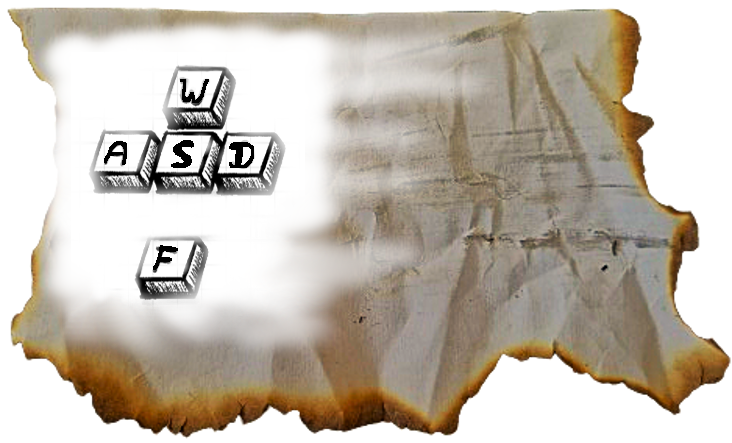
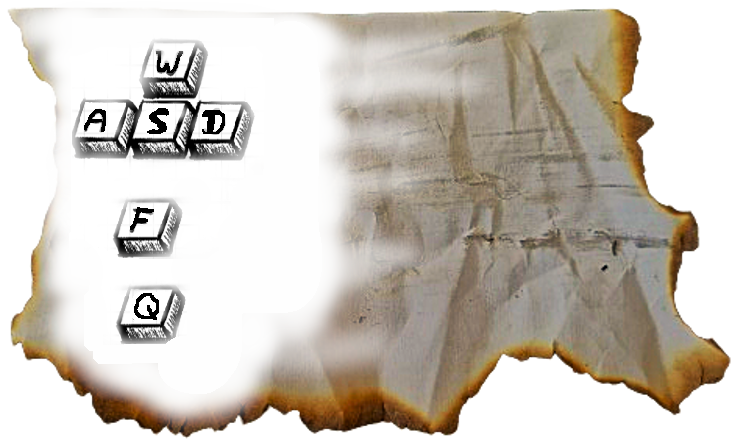
aufgerauemt plus neue features

Changed region(s): [[0.0, 0.0, 0.541, 0.9684], [0.4508, 0.2348, 0.4809, 0.2935]]

diff --git a/src/main/java/com/cab/states/Language.java b/src/main/java/com/cab/states/Language.java
@@ -1,10 +1,17 @@
-package com.cab;
+package com.cab.states;
 
+import java.awt.Color;
 import java.awt.Graphics2D;
+
+import com.cab.GamePanel;
+import com.cab.Main;
+import com.cab.configs.Positions;
 
 public class Language {
     GamePanel gp;
-    String[] langs = {"de", "en"};
+    String[] headers = {"Wähle eine Sprache"};
+    String[] langs = {"de"};
+    int[] xPositions = {Positions.tileSize5};
     String selectedLanguage;
     int selectIdx;
 
@@ -28,14 +35,19 @@ public class Language {
                     }
                 } else if (gp.keyH.fPressed) {
                     selectedLanguage = langs[selectIdx];
-                    gp.gameState = gp.hauptmenuState; // TODO irgendwann: TitleSeite titleState
+                    gp.gameState = gp.hauptmenuState;
                 }
             }
         }
     }
 
     public void draw(Graphics2D g2) {
-        g2.drawImage(gp.imageLoader.getFlagForLand(langs[0], selectIdx == 0), gp.tileSize * 12, Main.screenHalfHeight, gp.tileSize * 4, gp.tileSize * 4, null);
-        g2.drawImage(gp.imageLoader.getFlagForLand(langs[1], selectIdx == 1), gp.tileSize * 22, Main.screenHalfHeight, gp.tileSize * 4, gp.tileSize * 4, null);
+        g2.setColor(Color.RED);
+        g2.setFont(Main.v.brushedFont36);
+
+        for (int i = 0; i < headers.length; i++) {
+            g2.drawString(headers[i], Positions.tileSize, Positions.tileSize7);
+            g2.drawImage(gp.imageLoader.getFlagForLand(langs[i], selectIdx == i), xPositions[i], Positions.screenHalfHeight, Positions.tileSize4, Positions.tileSize3Point6, null);
+        }
     }
 }

diff --git a/src/main/java/com/cab/GamePanel.java b/src/main/java/com/cab/GamePanel.java
@@ -10,7 +10,12 @@ import javax.swing.JPanel;
 import com.cab.card.CardLoader;
 import com.cab.cardGame.CardGame;
 import com.cab.draw.ImageLoader;
+import com.cab.draw.MenuInstraction;
 import com.cab.network.Connection;
+import com.cab.states.CardMenu;
+import com.cab.states.Hauptmenu;
+import com.cab.states.Language;
+import com.cab.states.Shop;
 
 public class GamePanel extends JPanel implements Runnable {
     public boolean blockBtn; //TODO irgendwann kann das nicht in keyHandler und dann brauch keyHandler auch kein gp mehr
@@ -55,6 +60,9 @@ public class GamePanel extends JPanel implements Runnable {
     public CardMenu cardMenu;
     public CardGame cardGame;
 
+	//Draw
+	public MenuInstraction menuInstraction;
+
     Thread gameThread;
 
     public GamePanel() {
@@ -85,6 +93,8 @@ public class GamePanel extends JPanel implements Runnable {
 		shop = new Shop(this);
 		cardMenu = new CardMenu(this);
 		cardGame = new CardGame(this);
+
+		menuInstraction = new MenuInstraction(this);
 
 		playMusic(9);
 		gameState = languageState; 
@@ -142,14 +152,17 @@ public class GamePanel extends JPanel implements Runnable {
 		}
 	    else if (gameState == languageState) {
 			language.draw(g2);
+			menuInstraction.draw(g2);
 		} else if (gameState == hauptmenuState) {
 			hauptmenu.draw(g2);
+			menuInstraction.draw(g2);
 		} else if (gameState == cardMenuState) {
 			cardMenu.draw(g2);
 		} else if (gameState == cardGameState) {
 			cardGame.draw(g2);
 		} else if (gameState == shopState) {
 			shop.draw(g2);
+			menuInstraction.draw(g2);
 		}
 		g2.dispose();
 	}

diff --git a/src/main/java/com/cab/configs/Positions.java b/src/main/java/com/cab/configs/Positions.java
@@ -91,10 +91,19 @@ public class Positions {
     public static int tileSize26 = tileSize * 26;
     public static int tileSize31 = tileSize * 31;
 
+    public static int tileSizeBottom2 = Main.screenHeight - tileSize * 2;
+    public static int tileSizeBottom2Point5 = (int) (Main.screenHeight- tileSize * 2.5);
+    public static int tileSizeBottom2Point8 = (int) (Main.screenHeight- tileSize * 2.8);
+    public static int tileSizeBottom3Point5 = (int) (Main.screenHeight - tileSize * 3.5);
+    public static int tileSizeBottom4 = Main.screenHeight - tileSize * 4;
+
+    public static int tileSizeBottom5 = Main.screenHeight - tileSize * 5;
+
     public static int tileSizeRight1 = Main.screenWidth - tileSize;
     public static int tileSizeRight2 = Main.screenWidth - tileSize * 2;
     public static int tileSizeRight3 = Main.screenWidth - tileSize * 3;
     public static int tileSizeRight4 = Main.screenWidth - tileSize * 4;
+    public static int tileSizeRight7 = Main.screenWidth - tileSize * 7;
 
     public static int cardWidth = tileSize * 2;
     public static int cardHeight = tileSize  * 3;

diff --git a/src/main/java/com/cab/states/Hauptmenu.java b/src/main/java/com/cab/states/Hauptmenu.java
@@ -1,4 +1,4 @@
-package com.cab;
+package com.cab.states;
 
 import java.awt.Color;
 import java.awt.Graphics2D;
@@ -6,6 +6,8 @@ import java.io.ObjectInputStream;
 import java.io.ObjectOutputStream;
 import java.net.Socket;
 
+import com.cab.GamePanel;
+import com.cab.Main;
 import com.cab.network.ClientCreater;
 import com.cab.network.ClientJoiner;
 
@@ -110,11 +112,7 @@ public class Hauptmenu {
 	
 	public void draw(Graphics2D g2) {
 		g2.drawImage(gp.imageLoader.animHauptmenuBG.get(), 0, 0, Main.screenWidth, Main.screenHeight, null);
-		g2.drawImage(gp.imageLoader.instractionKeyboardMenu, Main.screenWidth - gp.tileSize * 7, Main.screenHeight - gp.tileSize * 5, gp.tileSize * 6, gp.tileSize * 4, null);
-		g2.setFont(Main.v.brushedFont15);
-		g2.drawString("Navigieren", Main.screenWidth - gp.tileSize * 4, (int) (Main.screenHeight - gp.tileSize * 3.5));
-		g2.drawString("Auswählen", Main.screenWidth - gp.tileSize * 4, (int) (Main.screenHeight - gp.tileSize * 2.5));
-
+		
 		g2.setFont(Main.v.brushedFont25);
 		if (currentState == titleState) {
 			for (int i = 0; i < menuItems.length; i++) {

diff --git a/src/main/java/com/cab/draw/MenuInstraction.java b/src/main/java/com/cab/draw/MenuInstraction.java
@@ -1,0 +1,25 @@
+package com.cab.draw;
+
+import java.awt.Color;
+import java.awt.Graphics2D;
+
+import com.cab.GamePanel;
+import com.cab.Main;
+import com.cab.configs.Positions;
+
+public class MenuInstraction {
+    GamePanel gp;
+
+    public MenuInstraction(GamePanel gp) {
+        this.gp = gp;
+    }
+    
+    public void draw(Graphics2D g2) {
+        g2.setColor(Color.BLACK);
+        g2.drawImage(gp.imageLoader.instractionKeyboardMenu, Positions.tileSizeRight7, Positions.tileSizeBottom5, Positions.tileSize6, Positions.tileSize4, null);
+		g2.setFont(Main.v.brushedFont15);
+		g2.drawString("Navigieren", Positions.tileSizeRight4, Positions.tileSizeBottom4);
+		g2.drawString("Auswählen",  Positions.tileSizeRight4, Positions.tileSizeBottom2Point8);
+        g2.drawString("Abbrechen",  Positions.tileSizeRight4, Positions.tileSizeBottom2);
+    }
+}

diff --git a/src/main/java/com/cab/Player.java b/src/main/java/com/cab/Player.java
@@ -6,7 +6,7 @@ import java.util.List;
 
 public class Player {
     GamePanel gp;
-	int punkte = 0;
+	public int punkte = 0;
 	public List<Integer> newCardIds = new ArrayList<Integer>();
     public List<Integer> truhe = new ArrayList<Integer>();
 	public List<Integer> stapel = new ArrayList<Integer>();
@@ -20,8 +20,8 @@ public class Player {
 		punkte = 2000;
 
         //XXXXXX TEST HACK STAPEL XXXXXXX
-		/*
-		 		System.out.println("Testversion Hack Stapel");
+		
+		System.out.println("Testversion Hack Stapel");
         stapel.add(gp.cardLoader.getCard(68).id);
 		stapel.add(gp.cardLoader.getCard(8).id);
 		stapel.add(gp.cardLoader.getCard(10).id);
@@ -45,7 +45,5 @@ public class Player {
 		stapel.add(gp.cardLoader.getCard(202).id);
 		stapel.add(gp.cardLoader.getCard(203).id);
 		stapel.add(gp.cardLoader.getCard(401).id);
-		 */
-
     }
 }

diff --git a/src/main/java/com/cab/card/CardLoader.java b/src/main/java/com/cab/card/CardLoader.java
@@ -17,7 +17,7 @@ public class CardLoader {
 	}
 	
 	public void loadAllCards() {
-         try (InputStream inputStream = CardLoader.class.getClassLoader().getResourceAsStream("cards/allCards.csv");
+         try (InputStream inputStream = CardLoader.class.getClassLoader().getResourceAsStream("cards/allCardsProd.csv");
              
 		 BufferedReader reader = new BufferedReader(new InputStreamReader(inputStream))) {
             String line;
@@ -38,7 +38,7 @@ public class CardLoader {
         }
 	}
 
-	public String insertNewLine(String input) {
+	private String insertNewLine(String input) {
 		if (input == null || input.length() <= 26) {
 			return input;
 		}

diff --git a/src/main/java/com/cab/states/Shop.java b/src/main/java/com/cab/states/Shop.java
@@ -1,4 +1,4 @@
-package com.cab;
+package com.cab.states;
 
 import java.awt.Color;
 import java.awt.Graphics2D;
@@ -6,6 +6,8 @@ import java.util.ArrayList;
 import java.util.List;
 import java.util.Random;
 
+import com.cab.GamePanel;
+import com.cab.Main;
 import com.cab.card.Art;
 import com.cab.card.Card;
 import com.cab.configs.Positions;
@@ -48,6 +50,7 @@ public class Shop {
     }           
 
     public void start() {
+        artWantedToBuy = null;
         switchState(shopState);
         gp.gameState = gp.shopState;
     }

diff --git a/src/main/java/com/cab/states/CardMenu.java b/src/main/java/com/cab/states/CardMenu.java
@@ -1,4 +1,4 @@
-package com.cab;
+package com.cab.states;
 
 import java.awt.BasicStroke;
 
@@ -12,6 +12,8 @@ import java.util.List;
 
 import javax.imageio.ImageIO;
 
+import com.cab.GamePanel;
+import com.cab.Main;
 import com.cab.card.Art;
 import com.cab.card.Card;
 import com.cab.configs.Positions;
